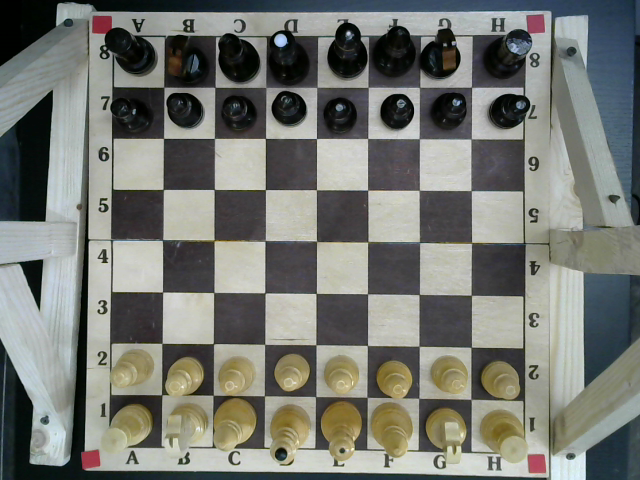
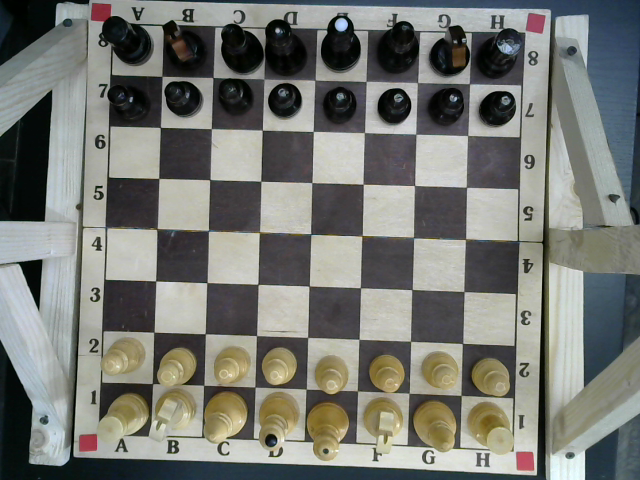
Castling Half Move

diff --git a/board_recognizer/fen.py b/board_recognizer/fen.py
@@ -17,6 +17,7 @@ class Board:
 		self.FullMove = 0
 		self.init_board(fen)
 
+	
 	def get_fen(self):
 		states = ''
 		count = 0
@@ -71,16 +72,30 @@ class Board:
 		print(step1.FullMove)
 
 
+	#def translate(coordinate)
 	def apply_changes(self, changes):
+		if self.ActiveColor == 'b' :
+			self.FullMove = str(int(self.FullMove) + 1)
 		if len(changes) == 2 :
 			# Ход на пустую клетку
 			if self.board[changes[0][0]][changes[0][1]] == None or self.board[changes[1][0]][changes[1][1]] == None :
 				temp = self.board[changes[0][0]][changes[0][1]]
 				self.board[changes[0][0]][changes[0][1]] = self.board[changes[1][0]][changes[1][1]]
 				self.board[changes[1][0]][changes[1][1]] = temp
+				self.HalfMove = str(int(self.HalfMove) + 1)
+				if self.board[changes[0][0]][changes[0][1]] == 'P' or self.board[changes[0][0]][changes[0][1]] == 'p' or self.board[changes[1][0]][changes[1][1]] == 'P' or self.board[changes[1][0]][changes[1][1]] == 'p' :
+					self.HalfMove = '0'
+					#peshka na prohode
+					if abs(changes[0][0] - changes[1][0]) == 2 : 
+						polosa = 8 - (changes[0][0] + changes[1][0])//2
+						print('eto polosa ' , polosa)
+						self.EnPassant = str(chr(ord('a') + changes[0][1]))+ str(polosa)
+
+
 			# Съедаем
 			else :
 				isFirstBlack = self.board[changes[0][0]][changes[0][1]].islower()
+				self.HalfMove = '0'
 
 				# съели первого
 				if isFirstBlack and self.ActiveColor == 'w' or not isFirstBlack and self.ActiveColor == 'b' :
@@ -91,13 +106,21 @@ class Board:
 					self.board[changes[1][0]][changes[1][1]] = self.board[changes[0][0]][changes[0][1]]
 					self.board[changes[0][0]][changes[0][1]] = None
 
+		if len(changes) == 4:	
+			
+			self.HalfMove = '0'
+			if self.ActiveColor == 'w' and self.CastlingAvailability == 'KQkq' : self.CastlingAvailability = 'kq'	
+			if self.ActiveColor == 'w' and self.CastlingAvailability == 'KQ' : self.CastlingAvailability = '-'
 
-		#if len(changes) == 3 :
+			if self.ActiveColor == 'b' and self.CastlingAvailability == 'KQkq' : self.CastlingAvailability = 'KQ'
+			if self.ActiveColor == 'b' and self.CastlingAvailability == 'kq' : self.CastlingAvailability = '-'
 
-
-				#if self.board[changes[b][0]][changes[b][1]] == 'p' or self.board[changes[b][0]][changes[b][1]] == 'P' :
-				#	if [change[a][0], change[b][1]] == translate(self.EnPassant = '-') or [change[b][0], change[a][1]] == translate(self.EnPassant = '-') :
-				#		print('prohod')
+			tmp = self.board[changes[0][0]][changes[0][1]]
+			self.board[changes[0][0]][changes[0][1]] = self.board[changes[2][0]][changes[2][1]]
+			self.board[changes[2][0]][changes[2][1]] = tmp
+			tmp = self.board[changes[1][0]][changes[1][1]]
+			self.board[changes[1][0]][changes[1][1]] = self.board[changes[3][0]][changes[3][1]]
+			self.board[changes[3][0]][changes[3][1]] = tmp
 
 		if self.ActiveColor == 'w' :
 			self.ActiveColor = 'b'
@@ -105,6 +128,10 @@ class Board:
 			self.ActiveColor = 'w'
 			
 				 
+def swap (a, b) :
+	tmp = a
+	a = b
+	b = tmp
 
 # step1 = condition('rnbqkbnr/pppppppp/8/8/4P3/8/PPPP1PPP/RNBQKBNR b K-kq e3 1 1')
 # step1.print_board()
